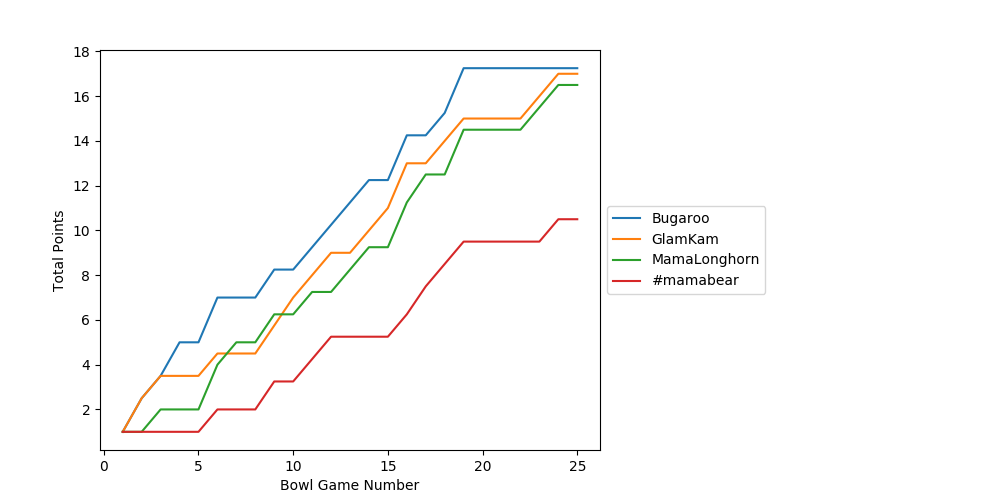
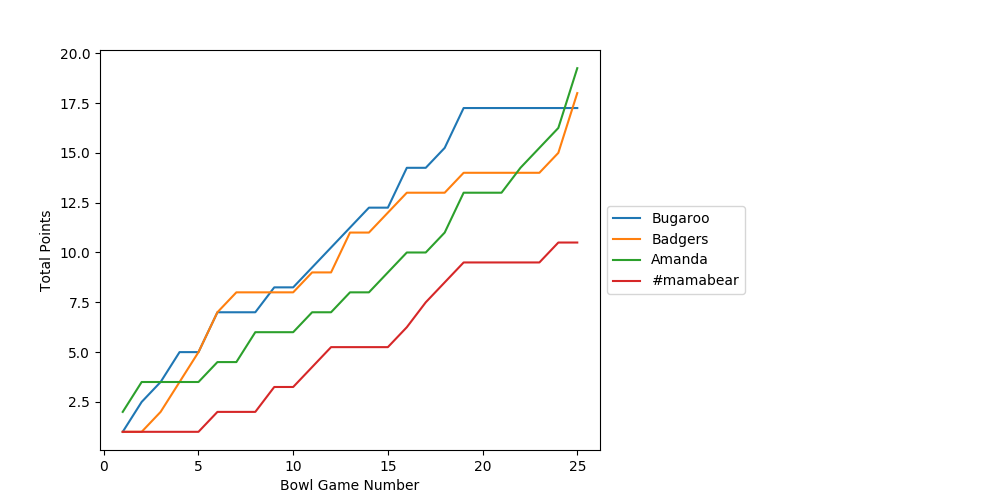
Orange Bowl update w/ highlights

diff --git a/bowl_pool/2022-2023/rankings.html b/bowl_pool/2022-2023/rankings.html
@@ -364,16 +364,16 @@ ul.auto-toc {
 
 
 <div class="line-block">
-<div class="line"><em>Last updated:  2022-12-30 22:44:49</em></div>
+<div class="line"><em>Last updated:  2022-12-30 22:49:47</em></div>
 <div class="line"><em>Last bowl scored:  Orange Bowl (Clemson vs. Tennessee)</em></div>
 </div>
 <div class="line-block">
-<div class="line">1. Amanda 19.25</div>
-<div class="line">2. Badgers 18.0</div>
+<div class="line">1. <strong>Amanda 19.25</strong></div>
+<div class="line">2. <strong>Badgers 18.0</strong></div>
 <div class="line">3. <strong>Bugaroo 17.25</strong></div>
-<div class="line">4. <strong>GlamKam 17.0</strong></div>
+<div class="line">4. GlamKam 17.0</div>
 <div class="line">4. Sure Thing Shipley 17.0</div>
-<div class="line">6. <strong>MamaLonghorn 16.5</strong></div>
+<div class="line">6. MamaLonghorn 16.5</div>
 <div class="line">7. NIL 16.0</div>
 <div class="line">8. Bad News Bibby 15.5</div>
 <div class="line">9. blue orred 15.0</div>

diff --git a/bowl_pool/2022-2023/index.html b/bowl_pool/2022-2023/index.html
@@ -365,7 +365,7 @@ ul.auto-toc {
 
 <p><strong>2022-2023 Bowl Pool</strong></p>
 <div class="line-block">
-<div class="line"><em>Last updated:  2022-12-30 22:44:49</em></div>
+<div class="line"><em>Last updated:  2022-12-30 22:49:48</em></div>
 <div class="line"><em>Last bowl scored:  Orange Bowl (Clemson vs. Tennessee)</em></div>
 </div>
 <ul class="simple">
